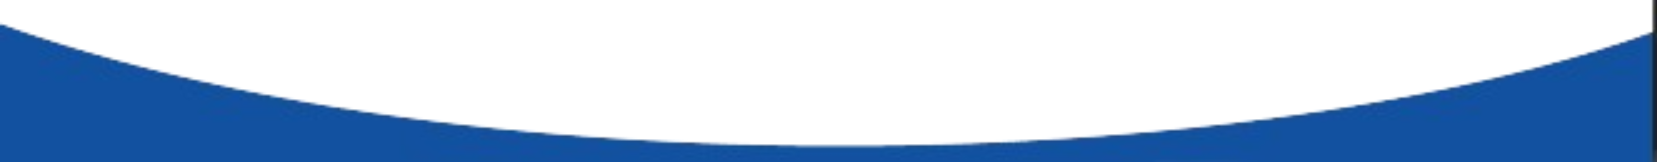
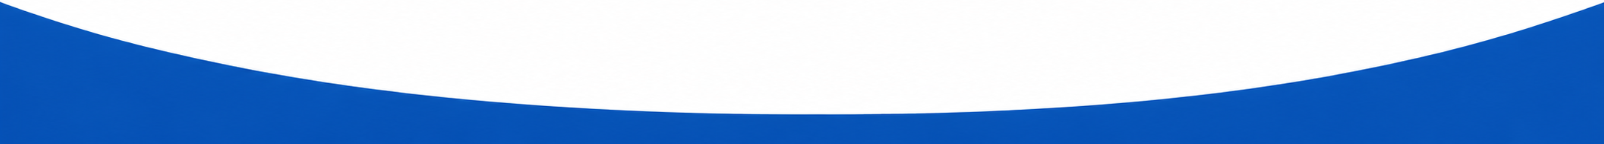
tela finalizada

Changed region(s): [[0.0, 0.0, 1.0, 1.0], [0.2494, 0.9722, 0.3429, 1.0]]

diff --git a/como-doar.css b/como-doar.css
@@ -22,7 +22,7 @@ header {
   position: fixed;
 
   padding-left: 20px;
-  padding-right: 20px;
+  padding-right: 200px;
 
   z-index: 5;
 
@@ -461,7 +461,7 @@ footer {
 
   justify-content: space-around;
 
-  background-color: #12519f;
+  background-color: #0753B7;
 
   padding-bottom: 50px;
   width: 100%;
